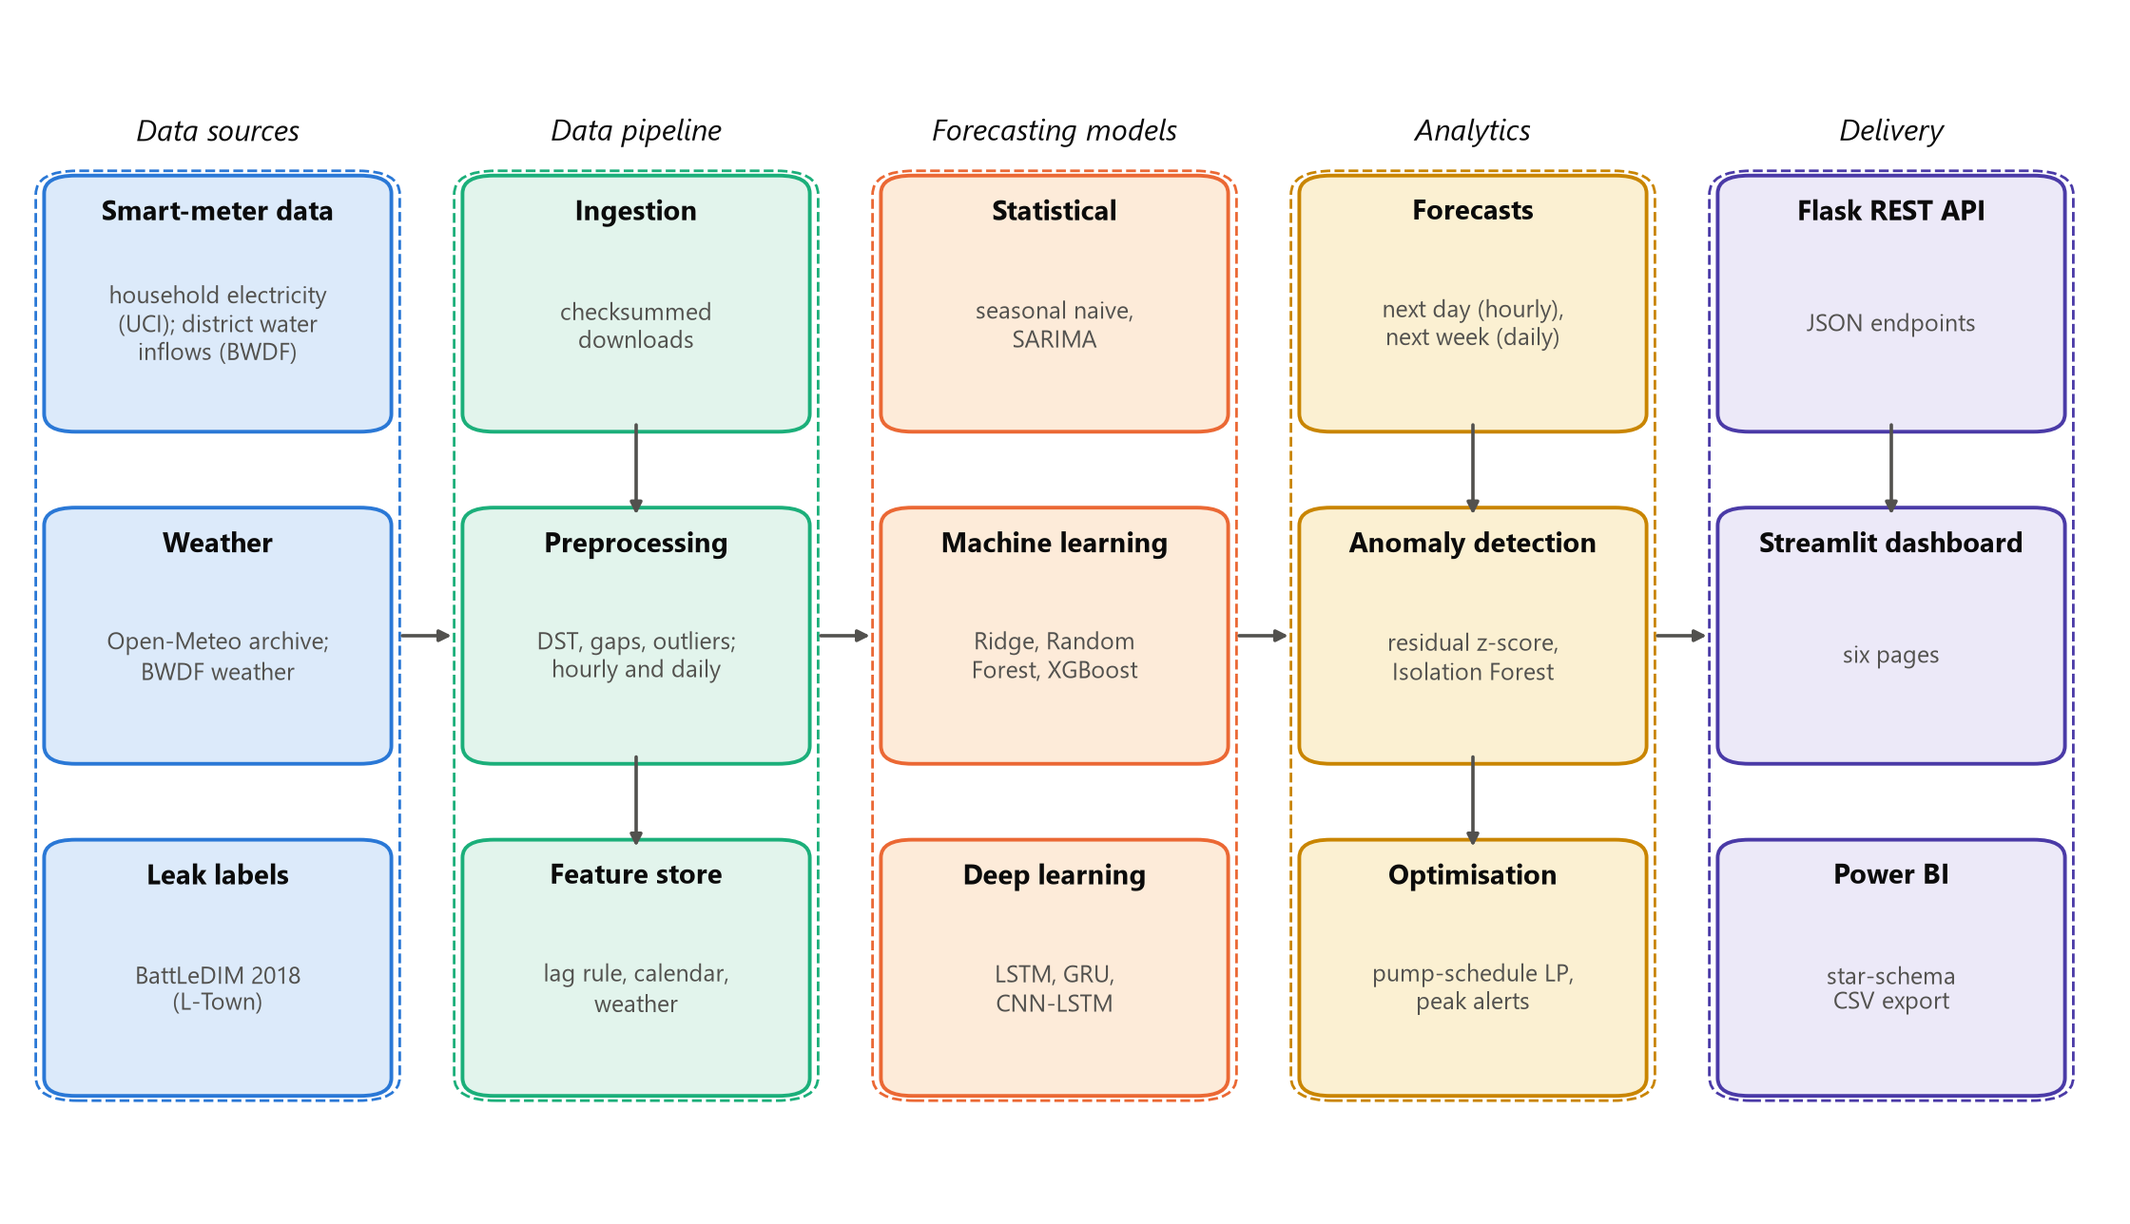
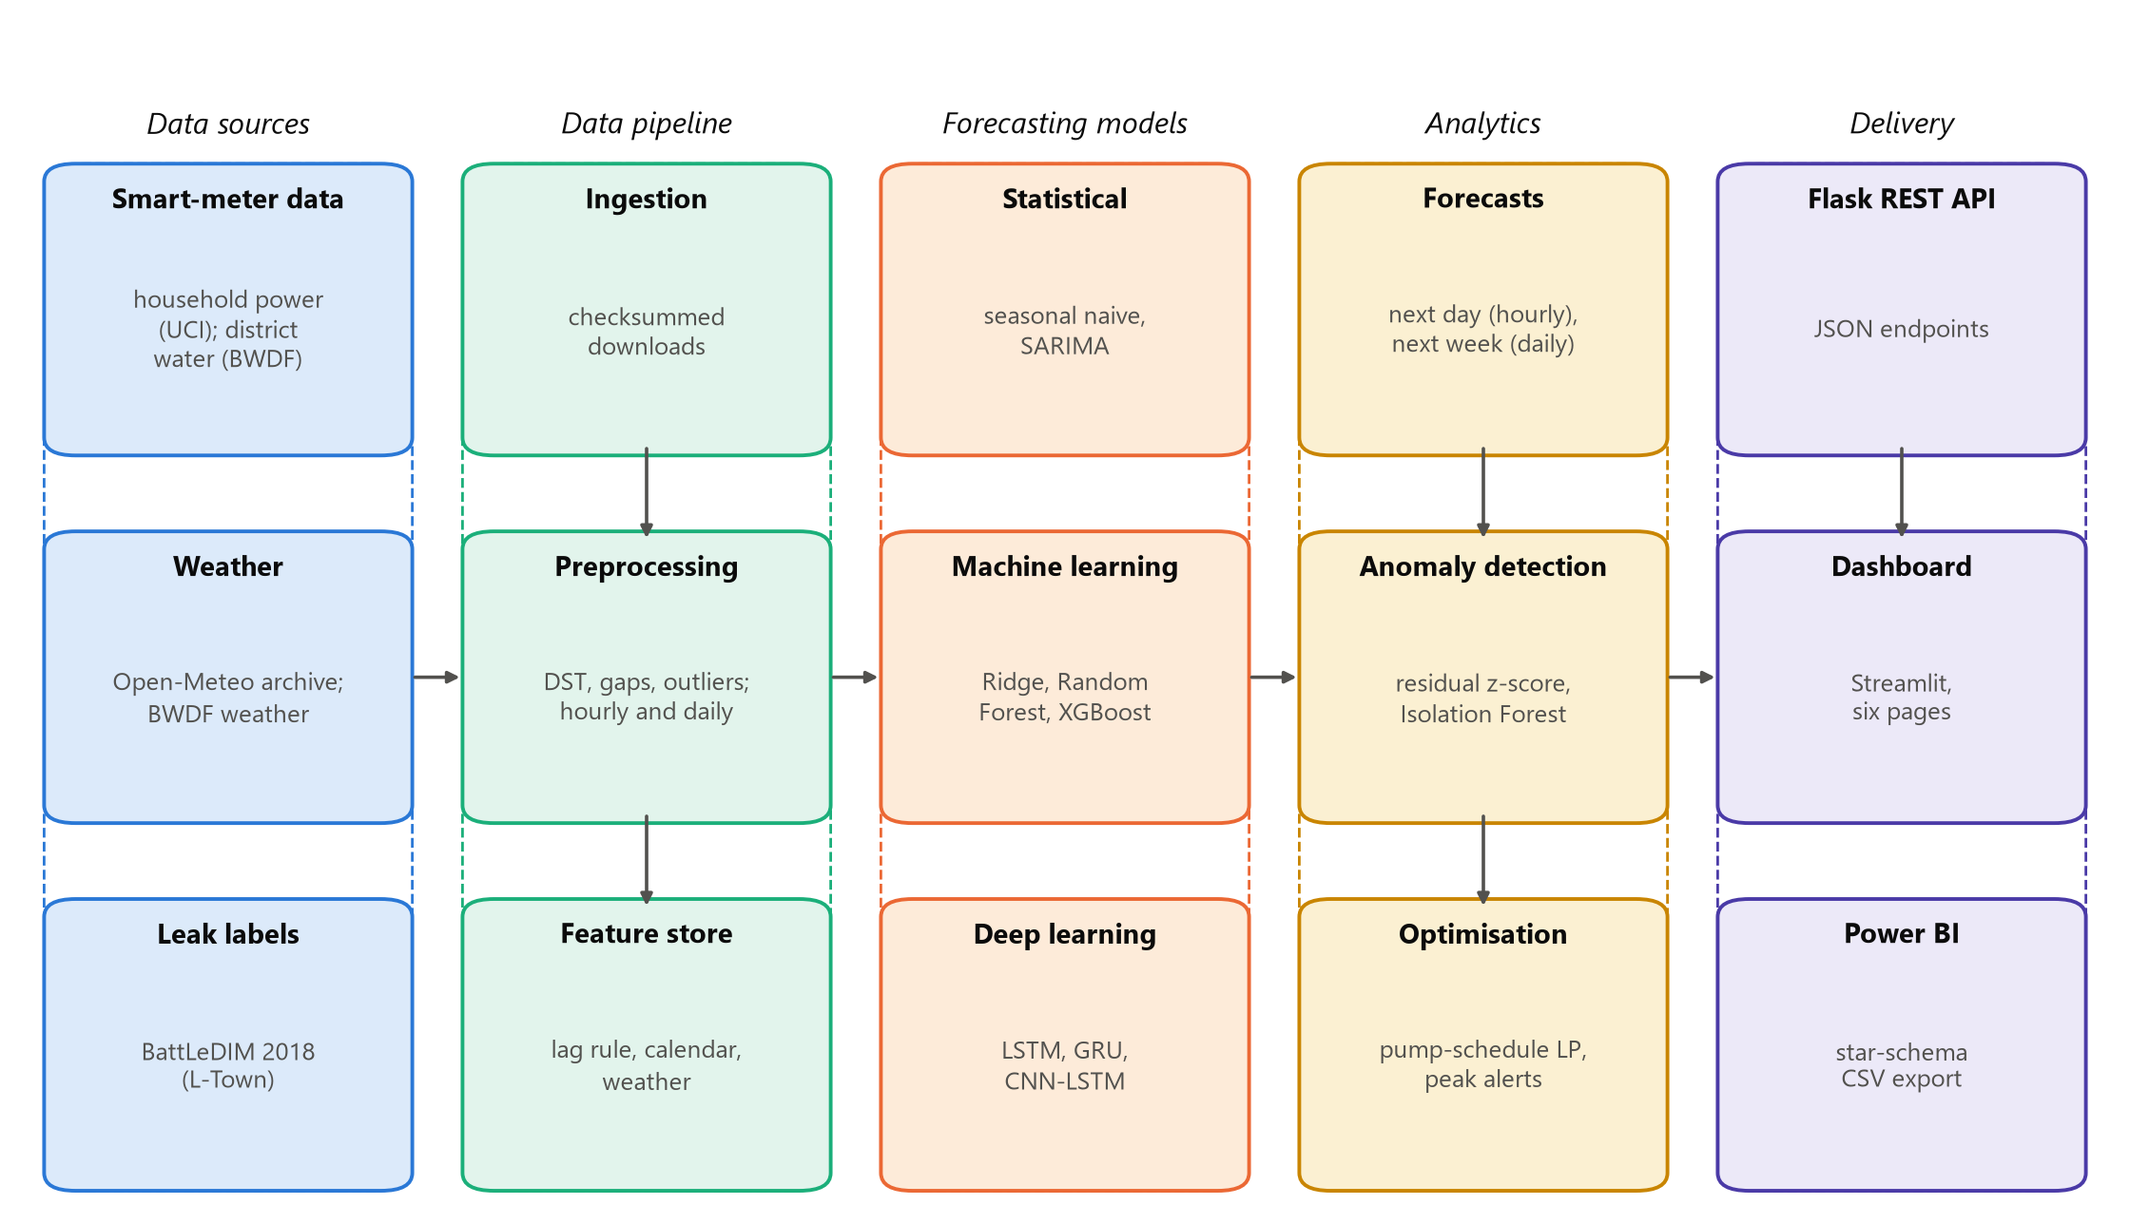
Report R4: visual review and student handover
Table rows no longer split and headers repeat; nomenclature group
headings; p-value wording; Fig 5.1 at printed width; Fig 6.4 legend
moved above the axes. --check passes in draft mode (20 body pages).

diff --git a/src/wef/viz/architecture.py b/src/wef/viz/architecture.py
@@ -18,7 +18,7 @@ def _box(ax, mode, x, y, w, h, title, lines=(), layer="data", fs=None):
     ax.add_patch(FancyBboxPatch((x, y), w, h, boxstyle="round,pad=0.008,rounding_size=0.015", **kw))
     ax.text(x + w / 2, y + h - 0.012, title, ha="center", va="top", fontsize=fs, fontweight="bold", color=style.INK)
     if lines:
-        ax.text(x + w / 2, y + h / 2 - 0.018, "\n".join(lines), ha="center", va="center", fontsize=fs - 1.5,
+        ax.text(x + w / 2, y + h / 2 - 0.018, "\n".join(lines), ha="center", va="center", fontsize=fs - 1,
                 color="0.15" if mode == "report" else style.INK2, linespacing=1.25)
     return (x, y, w, h)
 
@@ -35,14 +35,15 @@ def _arrow(ax, mode, a, b, side_a="r", side_b="l"):
 def fig_architecture():
     """Five layers left to right; one arrow between layers, vertical arrows only for real dependencies."""
     def draw(mode, size):
-        fig = plt.figure(figsize=(size[0], size[1] * 1.2))
+        # report: drawn at the printed width (150 mm) so text prints at 7-8 pt
+        fig = plt.figure(figsize=(size[0], size[0] * 0.46) if mode == "report" else (size[0], size[1] * 1.2))
         ax = fig.add_axes([0, 0, 1, 1]); ax.set_xlim(0, 1); ax.set_ylim(0, 1); ax.axis("off")
-        fs = 6.5 if mode == "report" else 10.5
-        w, h, pad = 0.15, 0.2, 0.012
+        fs = 8 if mode == "report" else 10.5
+        w, h, pad = 0.16, 0.23, 0.008
         xs = [0.02, 0.22, 0.42, 0.62, 0.82]
-        ys = [0.66, 0.38, 0.10]
+        ys = [0.64, 0.33, 0.02]
         heads = ["Data sources", "Data pipeline", "Forecasting models", "Analytics", "Delivery"]
-        col = [[("Smart-meter data", ["household electricity", "(UCI); district water", "inflows (BWDF)"]),
+        col = [[("Smart-meter data", ["household power", "(UCI); district", "water (BWDF)"]),
                 ("Weather", ["Open-Meteo archive;", "BWDF weather"]),
                 ("Leak labels", ["BattLeDIM 2018", "(L-Town)"])],
                [("Ingestion", ["checksummed", "downloads"]),
@@ -55,7 +56,7 @@ def fig_architecture():
                 ("Anomaly detection", ["residual z-score,", "Isolation Forest"]),
                 ("Optimisation", ["pump-schedule LP,", "peak alerts"])],
                [("Flask REST API", ["JSON endpoints"]),
-                ("Streamlit dashboard", ["six pages"]),
+                ("Dashboard", ["Streamlit,", "six pages"]),
                 ("Power BI", ["star-schema", "CSV export"])]]
         layers = ["data", "prep", "model", "out", "serve"]
         groups, boxes = [], []

diff --git a/src/wef/viz/figures.py b/src/wef/viz/figures.py
@@ -241,17 +241,17 @@ def fig_anomaly_water():
         for i, r in enumerate(lab.itertuples()):
             ax.axvline(r.start, color="0.3" if mode == "report" else style.SLIDE_COLORS[3], lw=1.0 if mode == "report" else 2,
                        ls="--", label="Leak start (labelled)" if i == 0 else None)
-            ax.annotate(f"{r.link} ({r.type})", (r.start, 1.0), xycoords=("data", "axes fraction"), rotation=90,
+            ax.annotate(r.link, (r.start, 0.98), xycoords=("data", "axes fraction"), rotation=90,
                         va="top", ha="right", fontsize=plt.rcParams["legend.fontsize"] - 1, color=style.INK2 if mode == "slides" else "0.2")
         lo, hi = ax.get_ylim()
         for j, (meth, lab_m, mk) in enumerate([("residual_zscore", "Alarm: residual z-score", "v"), ("isolation_forest", "Alarm: Isolation Forest", "x")]):
             e = ev[ev.method == meth]
             ax.scatter(e.alarm, np.full(len(e), lo - (0.04 + 0.05 * j) * (hi - lo)), marker=mk, s=18 if mode == "report" else 40,
                        clip_on=False, color=style.colour(mode, 0) if mode == "report" else style.SLIDE_COLORS[[2, 4][j]], label=lab_m, zorder=3)
-        ax.set_ylim(lo - 0.12 * (hi - lo), hi)
+        ax.set_ylim(lo - 0.12 * (hi - lo), hi + 0.22 * (hi - lo))  # headroom keeps leak labels clear of the data
         ax.set_ylabel("Inflow (m$^3$/h)"); ax.set_xlabel("2018 (test period)")
         ax.xaxis.set_major_formatter(plt.matplotlib.dates.DateFormatter("%b"))
-        ax.legend(frameon=False, ncol=2, loc="upper left", bbox_to_anchor=(0, -0.18))
+        ax.legend(frameon=False, ncol=2, loc="lower left", bbox_to_anchor=(0, 1.0))
         fig.tight_layout()
         return fig
     style.save_both("fig_anomaly_water", draw, compact=True)

diff --git a/report/build_report.py b/report/build_report.py
@@ -81,7 +81,7 @@ def fmt(v, spec: str | None) -> str:
     if spec == "len":
         return str(len(v))
     if spec == "p":
-        return "< 0.001" if v < 0.001 else f"{v:.3f}"
+        return "p < 0.001" if v < 0.001 else f"p = {v:.3f}"
     if spec == "int":
         return f"{int(round(v)):,}"
     if spec == "list":  # [24, 48, 168] -> "24, 48 and 168"
@@ -253,7 +253,7 @@ def anomaly_table(R):
             rows.append([f"{lab}, {mname}", f"{t['n_detected']} of {t['n_labels']}", f"{t['recall']:.2f}",
                          f"{t['precision']:.2f} ({t['chance_precision']:.2f})", f"{t['false_alarms_per_week']:.2f}",
                          "-" if d is None else f"{d:.1f} h"])
-    return header, rows, [46, 19, 16, 27, 22, 22.6]
+    return header, rows, [64, 18, 14, 21, 18, 17.6]
 
 
 GENERATORS = {"metrics_table": metrics_table, "anomaly_table": anomaly_table}
@@ -388,7 +388,7 @@ def build(R, front, chapters, toc, lof, lot, pages: dict, path: Path) -> Path:
     F.front_title(doc, "Nomenclature", new_page=True)
     for kind, p in front["nomenclature"]:
         if kind in ("sub", "section"):
-            F.body_para(doc, [(p, {"bold": True})], indent_first=False)
+            F.group_heading(doc, p)
         elif kind == "bullets":
             for item in p:
                 term, _, meaning = item.partition(": ")

diff --git a/report/docx_format.py b/report/docx_format.py
@@ -456,6 +456,11 @@ def table(doc, label: str, caption: str, header: list[str], rows: list[list[str]
     for i, w in enumerate(col_widths_mm):  # grid widths: LibreOffice ignores cell widths without them
         t.columns[i].width = Mm(w)
     _cell_borders(t)
+    for r_i, tr in enumerate(t.rows):  # rows never break across pages; header repeats on a new page
+        trPr = tr._tr.get_or_add_trPr()
+        trPr.append(OxmlElement("w:cantSplit"))
+        if r_i == 0:
+            trPr.append(OxmlElement("w:tblHeader"))
     for r_i, row in enumerate([header] + rows):
         for c_i, val in enumerate(row):
             cell = t.cell(r_i, c_i)
@@ -492,6 +497,16 @@ def reference(doc, number: int, text):
     _font(p.add_run(f"[{number}]\t"), BODY_PT)
     for seg, st in ([(text, {})] if isinstance(text, str) else text):
         _font(p.add_run(seg), BODY_PT, italic=st.get("italic", False))
+
+
+def group_heading(doc, text: str):
+    """Unnumbered bold group label inside a front-matter list (e.g. 'Abbreviations', 'Symbols')."""
+    p = doc.add_paragraph()
+    p.alignment = WD_ALIGN_PARAGRAPH.LEFT
+    _spacing(p, 12, 4, 1.0)
+    p.paragraph_format.keep_with_next = True
+    _font(p.add_run(text), BODY_PT, bold=True)
+    return p
 
 
 def term_line(doc, term, meaning):

diff --git a/report/content/ch6_results.md b/report/content/ch6_results.md
@@ -2,7 +2,7 @@
 
 ## Electricity Consumption Forecasting
 
-{{tab:tab_metrics}} reports the test accuracy of all models for both horizons. For electricity, every model improved on the seasonal-naive baseline. The selected {{m:electricity.d1.selected.model|name}} reached an MAE of {{m:electricity.d1.test.SEL.mae|.3f}} kW (RMSE {{m:electricity.d1.test.SEL.rmse|.3f}} kW), a skill of {{m:electricity.d1.test.SEL.skill|.0%}}, and its advantage over the {{m:electricity.d1.significance.vs|name}} was statistically significant (p = {{m:electricity.d1.significance.p_value|p}}). Percentage errors stay high ({{m:electricity.d1.test.SEL.mape|.0f}} percent) because a household uses little power at night; {{fig:fig_forecast_electricity}} shows that the model follows the daily rhythm but not individual appliance peaks. For next-week totals, the {{m:electricity.w1.significance.vs|name}} beat the selected {{m:electricity.w1.selected.model|name}} on test, but not significantly (p = {{m:electricity.w1.significance.p_value|p}}).
+{{tab:tab_metrics}} reports the test accuracy of all models for both horizons. For electricity, every model improved on the seasonal-naive baseline. The selected {{m:electricity.d1.selected.model|name}} reached an MAE of {{m:electricity.d1.test.SEL.mae|.3f}} kW (RMSE {{m:electricity.d1.test.SEL.rmse|.3f}} kW), a skill of {{m:electricity.d1.test.SEL.skill|.0%}}, and its advantage over the {{m:electricity.d1.significance.vs|name}} was statistically significant ({{m:electricity.d1.significance.p_value|p}}). Percentage errors stay high ({{m:electricity.d1.test.SEL.mape|.0f}} percent) because a household uses little power at night; {{fig:fig_forecast_electricity}} shows that the model follows the daily rhythm but not individual appliance peaks. For next-week totals, the {{m:electricity.w1.significance.vs|name}} beat the selected {{m:electricity.w1.selected.model|name}} on test, but not significantly ({{m:electricity.w1.significance.p_value|p}}).
 
 [[TAB:tab_metrics]]
 
@@ -10,7 +10,7 @@
 
 ## Water Demand Forecasting
 
-District water demand is much smoother. The selected {{m:water.d1.selected.model|name}} forecast next-day hourly demand with a MAPE of {{m:water.d1.test.SEL.mape|.1f}} percent and a skill of {{m:water.d1.test.SEL.skill|.0%}}, significantly better than the next best model (p = {{m:water.d1.significance.p_value|p}}), and {{fig:fig_forecast_water}} shows forecasts that track both daily peaks closely. SARIMA was worse than the baseline because it could not follow the drop in demand in late 2022. For next-week water totals the selected {{m:water.w1.selected.model|name}} improved on the baseline by only {{m:water.w1.test.SEL.skill|.0%}}, which was not significant (p = {{m:water.w1.significance_vs_naive.p_value|p}}). The next-day result held across districts: the same XGBoost configuration beat the baseline in {{m:water.robustness.n_dmas_beating_naive}} of the {{m:water.robustness.dmas|len}} districts, with a median skill of {{m:water.robustness.median_skill|.0%}}.
+District water demand is much smoother. The selected {{m:water.d1.selected.model|name}} forecast next-day hourly demand with a MAPE of {{m:water.d1.test.SEL.mape|.1f}} percent and a skill of {{m:water.d1.test.SEL.skill|.0%}}, significantly better than the next best model ({{m:water.d1.significance.p_value|p}}), and {{fig:fig_forecast_water}} shows forecasts that track both daily peaks closely. SARIMA was worse than the baseline because it could not follow the drop in demand in late 2022. For next-week water totals the selected {{m:water.w1.selected.model|name}} improved on the baseline by only {{m:water.w1.test.SEL.skill|.0%}}, which was not significant ({{m:water.w1.significance_vs_naive.p_value|p}}). The next-day result held across districts: the same XGBoost configuration beat the baseline in {{m:water.robustness.n_dmas_beating_naive}} of the {{m:water.robustness.dmas|len}} districts, with a median skill of {{m:water.robustness.median_skill|.0%}}.
 
 [[FIG:fig_forecast_water]]
 

diff --git a/docs/DECISIONS.md b/docs/DECISIONS.md
@@ -150,3 +150,14 @@ Every non-obvious choice, with reason and alternatives. Newest at the bottom.
 - **Figure widths and legibility**: the instruction sets a 110 mm minimum. Single-panel report figures (forecast weeks, anomaly figures, pump schedule) are now drawn at their printed size (`style.COMPACT_REPORT`, 4.6 x 2.1 in, `save_both(..., compact=True)`) so axis text stays at 8-9 pt at 110-115 mm instead of being scaled down; two-panel figures and the diagram keep the 5.9 in design at 125-135 mm. Forecast dates use "Mon 13" labels and the legend sits above the axes; the pump figure's lower legend moved into the caption legend; the report copy of the dashboard screenshot crops the navigation sidebar (stated in the caption). These are drawing changes only: results are untouched (check 11 passes), and `python -m wef.cli figures` regenerates the same files.
 - **`docx_format.py` extended again** (self-test passes): `front_title()` and `chapter_title()` take `new_page=True`, which sets "page break before" instead of inserting a page-break paragraph (that paragraph produced an empty page when the previous chapter filled its last page exactly); `figure()` keeps the caption with its legend.
 - **Checks** (`python report/build_report.py --check`, writes `report/out/check_report.txt`): all 12 checks of the instructions. Greyscale images are verified by palette or pixel values, because LibreOffice re-encodes greyscale PNGs as indexed RGB with a grey palette; the colour PCCOE logos on the unnumbered cover and certificate pages come from the official template and are not checked. Check 11 accepts results produced at an ancestor of the tag with no change under `src/wef/` (outside `viz/`) or `config/` in between, and requires the results files to be identical to the tag.
+
+## 2026-10-13 - Report phase R4 (visual review and student handover)
+
+- **Table rows never split**: `docx_format.table()` sets `w:cantSplit` on every row and `w:tblHeader` on the header row. A table that runs onto the next page now continues with whole rows under a repeated header (Tables 3.1 and 5.1), instead of breaking a row mid-cell. Column widths of Table 5.1 (`figures.yaml`) and Table 6.2 (`anomaly_table`) were rebalanced so that rows wrap less: Figure 5.2 fits back on its page, and Table 6.2 fits on one page with one line per row. The body stays at 20 pages.
+- **Nomenclature group headings**: new `docx_format.group_heading()` (bold 12 pt, 12 pt before, 4 pt after, kept with the next line) replaces the body paragraph used for "Abbreviations" and "Symbols", which had uneven spacing.
+- **p-values**: the `p` filter now returns the whole expression ("p < 0.001" or "p = 0.021"), and Chapter 6 writes `({{...|p}})`. The old output read "p = < 0.001".
+- **Figure 5.1**: drawn at the printed width (150 mm, 5.9 x 2.7 in), with box text at 7-8 pt instead of about 5 pt after scaling. Two labels were shortened to fit ("Dashboard: Streamlit, six pages"; "household power"). The slide version keeps its size.
+- **Figure 6.4**: the legend moved above the axes (it overlapped the x-axis label in the compact size). Leak labels show only the pipe ID, with headroom above the data; the leak type is not shown in the figure.
+- **Section 5.7**: "(5.4)" is now placed after "robust z-score" (it rendered as "((5.4))").
+- **Cover and certificate**: compared with a LibreOffice rendering of the official template. Layout, fonts and the 20 pt title match. The staggered signature lines are in the template too, so they are left unchanged.
+- **Handover**: `report/out/STUDENT_REVIEW.md` covers the sections to rewrite, the CONFIRM item, five papers, open questions for the guide, differences from the synopsis and this review. It is git-ignored with the rest of `report/out/`, like `reference_verification.md`.

diff --git a/docs/CHANGELOG.md b/docs/CHANGELOG.md
@@ -86,3 +86,12 @@
 - Body trimmed from 26 to 20 pages; Tables 6.1 and 6.2 merged; figure placement and widths adjusted.
 - `wef.viz.style.COMPACT_REPORT` and `save_both(compact=True)` for single-panel report figures; dashboard report copy cropped; figures regenerated.
 - `docx_format.py`: `new_page` on title functions, caption kept with legend.
+
+## Report R4 - visual review and student handover (2026-10-13)
+
+- `report/docx_format.py`: table rows cannot split across pages and the header row repeats; new `group_heading()`. Self-test passes.
+- `report/build_report.py`: `p` filter returns "p < 0.001" or "p = x.xxx"; nomenclature groups use `group_heading()`; Table 6.2 column widths.
+- `report/figures.yaml`: Table 5.1 column widths; Figure 5.1 at 150 mm.
+- `src/wef/viz/architecture.py`: report version drawn at the printed width with larger text. `src/wef/viz/figures.py`: BattLeDIM anomaly figure legend above the axes, short leak labels.
+- `report/content/ch5_methodology.md`, `ch6_results.md`: equation reference and p-value wording.
+- Report rebuilt: 30 pages, 20 body pages, `--check` 0 failures (draft mode). `report/out/STUDENT_REVIEW.md` written. 67 tests pass.

diff --git a/CLAUDE.md b/CLAUDE.md
@@ -140,7 +140,7 @@ Report (02_SEMINAR_REPORT.md)
 - [x] R1 - bibliography verified (2026-10-13: 21 verified entries; 2 unverifiable papers and the Indian NRW figure listed for Manthan in report/out/reference_verification.md)
 - [x] R2 - chapter drafts (2026-10-13: all content files drafted, draft build resolves every token and citation; 4,121 words in Chapters 1-7; body 26 pages vs preferred 12-15 - decision needed before R3)
 - [x] R3 - build, page budget, automated checks (2026-10-13: --check passes in draft mode, 0 failures; 20 body pages by option 2; warnings: above preferred 15 pages, Director CONFIRM, chapter budgets)
-- [ ] R4 - visual review and handover for the student's edit
+- [x] R4 - visual review and handover for the student's edit (2026-10-13: every page rendered and reviewed; tables keep rows whole, Fig 5.1 and 6.4 legibility fixed; --check 0 failures, 20 body pages; STUDENT_REVIEW.md written; final-mode build waits for Manthan's rewrite and the Director CONFIRM)
 
 Presentation (03_FINAL_PRESENTATION.md)
 - [ ] P1 - deck content

diff --git a/report/content/ch5_methodology.md b/report/content/ch5_methodology.md
@@ -42,7 +42,7 @@ MAPE ignored actual values below {{c:metrics.mape_min_fraction_of_train_mean|.0%
 
 ## Anomaly Detection
 
-The first detector computes a robust z-score of the residual r_{t} of the selected next-day model over the previous {{c:anomaly.rolling_window_hours}} hours ({{eq:eq_zscore}}) and raises an alarm when it exceeds k in absolute value for m consecutive hours; the second is an Isolation Forest [@liu2008]. Both were tuned on validation data and scored on BattLeDIM leaks [@vrachimis2022battledim] and on injected electricity anomalies.
+The first detector computes the robust z-score {{eq:eq_zscore}} of the residual r_{t} of the selected next-day model over the previous {{c:anomaly.rolling_window_hours}} hours and raises an alarm when it exceeds k in absolute value for m consecutive hours; the second is an Isolation Forest [@liu2008]. Both were tuned on validation data and scored on BattLeDIM leaks [@vrachimis2022battledim] and on injected electricity anomalies.
 
 [[EQ:eq_zscore]]
 
